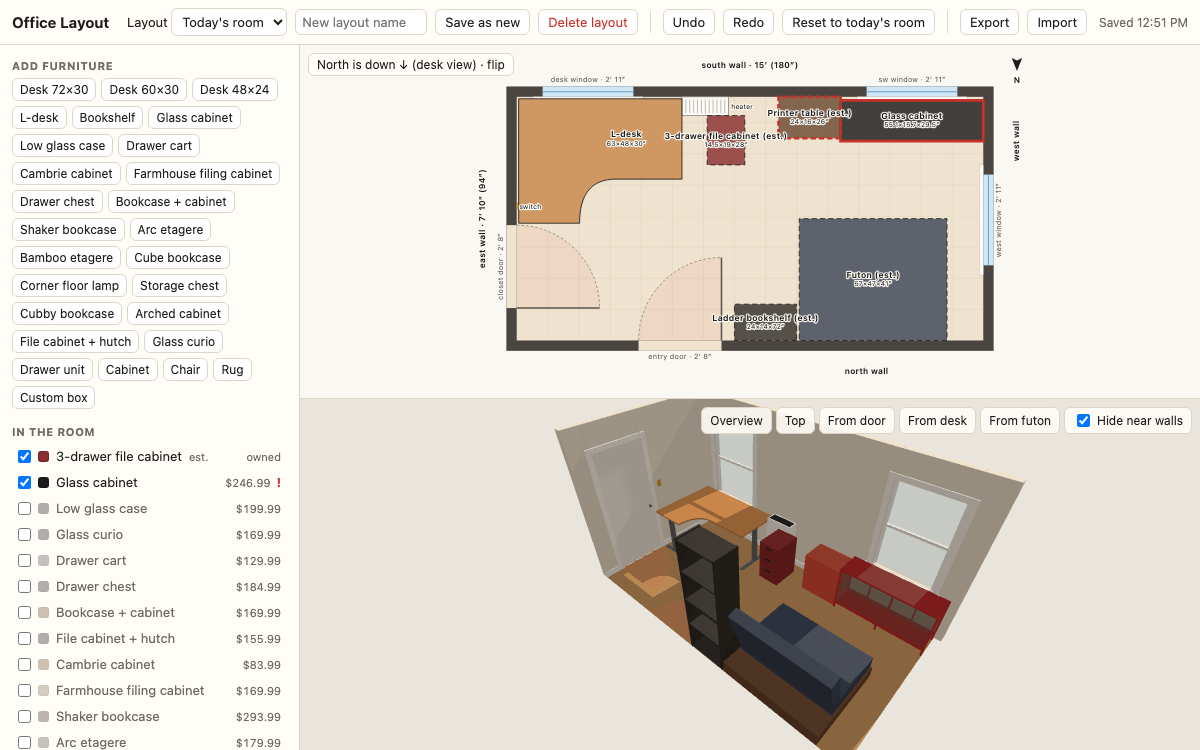
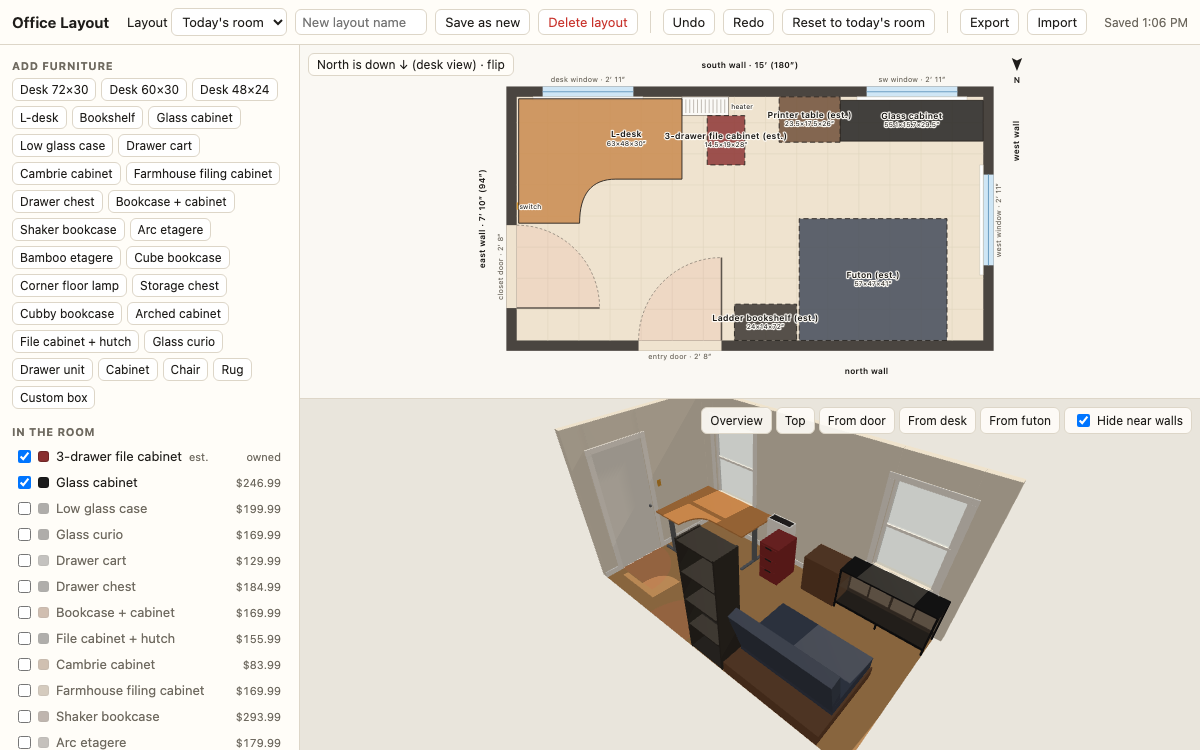
Office layout planner: use the measured printer table size
Re-copied from afxjzs/office-layout (f016708). The printer table is now the measured 23.5 x 17.5 instead of a 24 x 16 guess, which clears the overlap warning the default room showed. Thumbnail recaptured without the warning.

diff --git a/src/content/stuff/office-layout.html b/src/content/stuff/office-layout.html
@@ -396,6 +396,11 @@ function moreCabinets(){
 const BOOKCASE_DEPTHS = { d:15.75, upperD:11.81 };
 const BOOKCASE_NOTE = 'Listing size. The cabinet (~15.75″ deep) sticks out past the 11.81″-deep shelves above it.';
 
+// Printer table, measured Oct 1, 2026: 23.5″ wide × 17.5″ deep, backed onto the south wall.
+// Height and where it sits along the wall are still estimates.
+const PRINTER_MEASURED = { w:23.5, d:17.5, y:ROOM.D - 17.5/2 };
+const PRINTER_NOTE = 'Width and depth measured. Height and position along the wall are estimates.';
+
 // Storage pieces being considered, sized from their product listings. Parked on open floor, hidden.
 function storagePieces(){
   return [
@@ -491,6 +496,21 @@ const MIGRATIONS = [
         for(const c of fourthBatch()) if(!its.some(i => i.id === c.id)){ its.push(withCatalog(c)); added++; }
       return added ? `Added the storage chest and cubby bookcase (hidden, priced)` : null;
   } },
+  { id:'2026-10-01-printer-measured', run(store){
+      // Only replace the old guessed 24 × 16; a printer table the user already resized is left alone.
+      let fixed = 0, kept = 0;
+      for(const its of Object.values(store.layouts)) for(const it of its){
+        if(it.id !== 'printer') continue;
+        if(it.w === 24 && it.d === 16){
+          const backAtWall = it.rot === 0 && it.y + it.d/2 === ROOM.D;   // keep it backed onto the south wall
+          Object.assign(it, { w:PRINTER_MEASURED.w, d:PRINTER_MEASURED.d, note:PRINTER_NOTE });
+          if(backAtWall) it.y = ROOM.D - it.d/2;
+          fixed++;
+        } else kept++;
+      }
+      if(!fixed && !kept) return null;
+      return `Printer table: ${fixed ? `set to your measured 23.5 × 17.5″ in ${fixed} layout${fixed>1?'s':''}` : ''}${fixed && kept ? '; ' : ''}${kept ? `left ${kept} you had resized unchanged` : ''}`;
+  } },
 ];
 // Later batches of product pages. Fills pieces with no link yet, and replaces a price that only
 // came from a screenshot. A link or price entered by hand is left alone and reported.
@@ -522,8 +542,8 @@ function defaultItems(){
       note:'Size measured (folded as a couch). Position along the wall is a guess.' },
     { id:'ladder', kind:'shelf', name:'Ladder bookshelf', w:24, d:14, h:72, x:84, y:7, rot:0, z:0, color:'#34302c', est:true,
       note:'Size and position estimated from photos. Measure it.' },
-    { id:'printer', kind:'box', name:'Printer table', w:24, d:16, h:26, x:67, y:86, rot:0, z:0, color:'#6b4a33', est:true,
-      note:'Size and position estimated from photos. Measure it.' },
+    { id:'printer', kind:'box', name:'Printer table', ...PRINTER_MEASURED, h:26, x:67, rot:0, z:0, color:'#6b4a33', est:true,
+      note:PRINTER_NOTE },
   ].map(withCatalog);
 }
 
